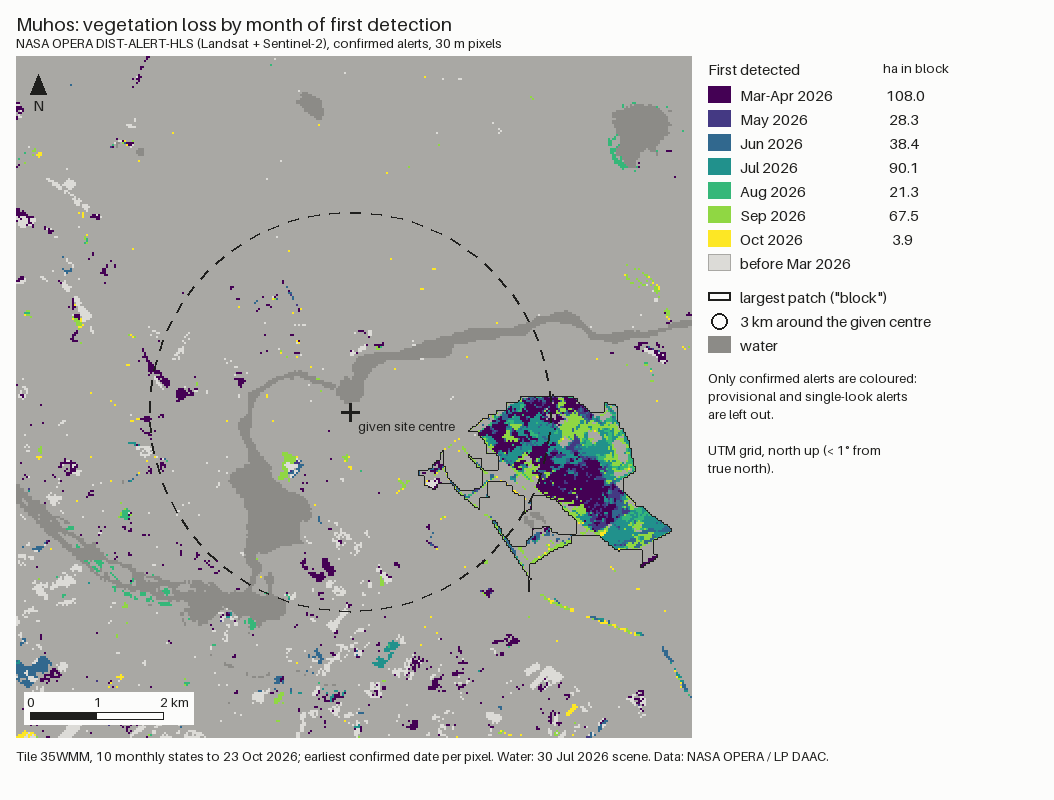
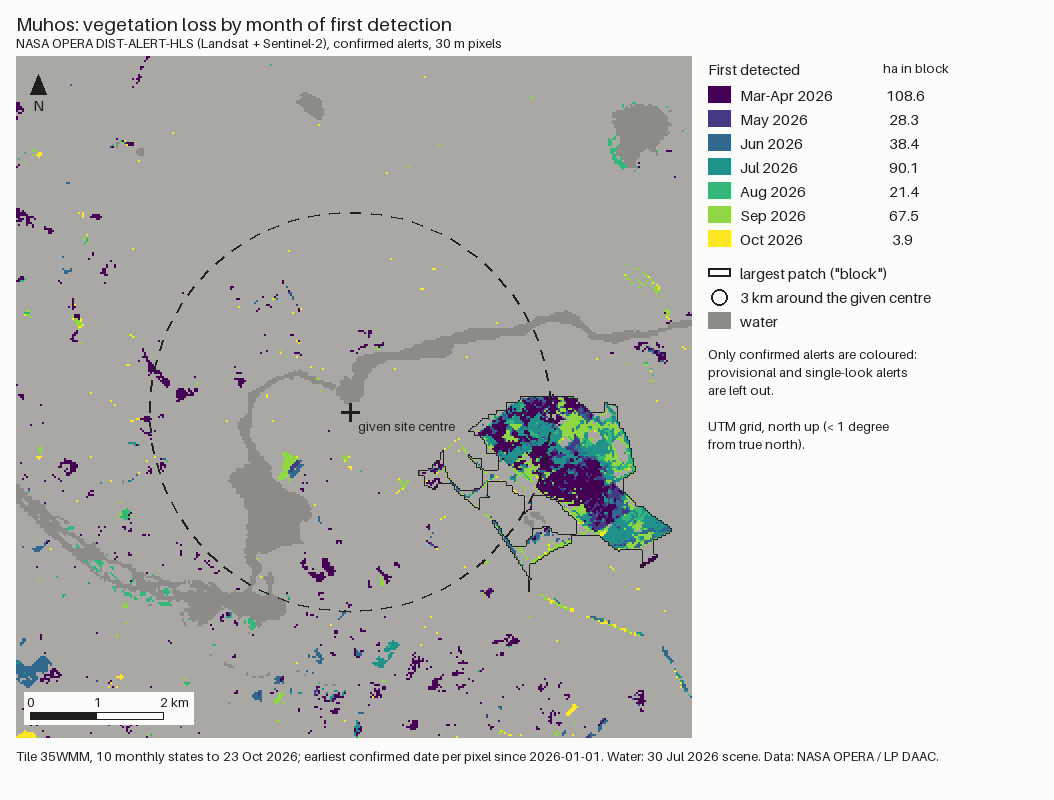
R6: count alerts from a per-site date, per-year table, Agroparc 2023-2026 run + picture

diff --git a/explore/optical-alerts/site_by_month.py b/explore/optical-alerts/site_by_month.py
@@ -1,22 +1,25 @@
 """Vegetation loss by month of first detection in a site window, from NASA's optical alerts (issue #44, R6 step 1).
 
     python explore/optical-alerts/site_by_month.py muhos      # tables + explore/optical-alerts/muhos_alerts.png
-    python explore/optical-alerts/site_by_month.py agroparc   # 2023 -> today
+    python explore/optical-alerts/site_by_month.py agroparc   # 2023 -> today, per year + 2025-26 by month
 
 Reads the alert state at the end of each month from the one MGRS tile that covers the site window
-(sarwatch.distalert), keeps each pixel's earliest confirmed first-detection date (distalert.combine: a "finished"
-alert is overwritten by a later one, which would move its date), then prints hectares per month of first detection
-for the window, a 3 km circle around the site centre and the largest connected patch of confirmed loss ("block"),
-plus what the reads cost. Needs an Earthdata token ($EARTHDATA_TOKEN or the repo's .env). Nothing is cached: a run
-reads about 1 MB per year of snapshots.
+(sarwatch.distalert). Alerts first detected before the site's `since` date are dropped, then each pixel keeps its
+earliest confirmed first-detection date (distalert.combine: a "finished" alert is overwritten by a later one, which
+would move its date). Prints hectares per month of first detection for the window, a 3 km circle around the given
+site centre and the largest connected patch of confirmed loss ("block"), a per-year table when the run spans several
+years (each year's alerts counted on their own: fields are alerted again every year), and what the reads cost.
+Needs an Earthdata token ($EARTHDATA_TOKEN or the repo's .env). Nothing is cached: ~0.35 MB per year of snapshots.
 """
 from __future__ import annotations
 
 import argparse
+import dataclasses
 import math
 import sys
 import time
 from concurrent.futures import ThreadPoolExecutor
+from datetime import datetime
 from pathlib import Path
 
 import numpy as np
@@ -25,22 +28,46 @@ ROOT = Path(__file__).resolve().parents[2]
 sys.path.insert(0, str(ROOT / "src"))
 from sarwatch import distalert as da  # noqa: E402
 
-SITES = {
+SITES = {  # start: first snapshot month to read; since: alerts first detected from here on are counted and mapped
     "muhos": {"label": "Muhos", "bbox": (25.94, 64.80, 26.15, 64.89), "centre": (26.044, 64.843),
-              "start": "2025-10-01", "block_from": "2026-01-01", "map_from": "2026-03-01"},
-    "agroparc": {"label": "Agroparc Penedès", "bbox": (1.79, 41.41, 1.91, 41.49), "centre": (1.85, 41.45),
-                 "start": "2023-01-01", "block_from": "2023-01-01", "map_from": "2023-01-01"},
+              "start": "2025-10-01", "since": "2026-01-01"},
+    "agroparc": {"label": "Agroparc Penedes", "bbox": (1.79, 41.41, 1.91, 41.49), "centre": (1.85, 41.45),
+                 "start": "2023-01-01", "since": "2025-01-01"},  # earthworks 2025-27 (kb/project-context.md)
 }
 RADIUS_M = 3000
 OUT_DIR = Path(__file__).resolve().parent
 
 
-def largest_patch(alerts, since) -> np.ndarray:
-    """The largest connected patch of confirmed alerts first seen on or after `since`, gaps of up to ~3 pixels
-    closed, holes filled."""
+# ---------------------------------------------------------------- analysis
+
+def within(states, lo, hi=None) -> list:
+    """Copies of the snapshots with every alert first detected outside [lo, hi) removed (status 0, date NaT)."""
+    out = []
+    for a in states:
+        keep = a.first_date >= np.datetime64(lo, "D")
+        if hi is not None:
+            keep &= a.first_date < np.datetime64(hi, "D")
+        out.append(dataclasses.replace(a, status=np.where(keep, a.status, 0).astype(a.status.dtype),
+                                       first_date=np.where(keep, a.first_date, np.datetime64("NaT", "D")), layers={}))
+    return out
+
+
+def confirmed_ha_by_year(states, years, regions: dict) -> dict:
+    """{year: {region name: confirmed ha}}, each calendar year's alerts counted on their own (a pixel at most once
+    per year), so a field alerted again every year counts every year."""
+    out = {}
+    for y in years:
+        alerts = da.combine(within(states, f"{y}-01-01", f"{y + 1}-01-01"))
+        conf = np.isin(alerts.status, da.CONFIRMED) & ~np.isnat(alerts.first_date)
+        out[y] = {name: float((conf & region).sum() * alerts.pixel_ha) for name, region in regions.items()}
+    return out
+
+
+def largest_patch(alerts) -> np.ndarray:
+    """The largest connected patch of confirmed alerts, gaps of up to ~3 pixels closed, holes filled."""
     from scipy import ndimage
 
-    hit = np.isin(alerts.status, da.CONFIRMED) & (alerts.first_date >= np.datetime64(since))
+    hit = np.isin(alerts.status, da.CONFIRMED) & ~np.isnat(alerts.first_date)
     closed = ndimage.binary_closing(hit, structure=np.ones((3, 3)), iterations=3)
     labels, n = ndimage.label(closed)
     if n == 0:
@@ -59,12 +86,17 @@ def centroid_lonlat(alerts, mask) -> tuple:
     return lon[0], lat[0]
 
 
-def table(title, by_month, since=None) -> str:
+def distance_km(epsg, p, q) -> float:
+    from rasterio.warp import transform as warp_transform
+
+    xs, ys = warp_transform("EPSG:4326", f"EPSG:{epsg}", [p[0], q[0]], [p[1], q[1]])
+    return math.hypot(xs[1] - xs[0], ys[1] - ys[0]) / 1000
+
+
+def table(title, by_month) -> str:
     rows = [f"**{title}**", "", "| month | confirmed ha | provisional ha | first-only ha |", "|---|---:|---:|---:|"]
-    total = {"confirmed": 0.0, "provisional": 0.0, "first": 0.0}
+    total = dict.fromkeys(da.CLASSES, 0.0)
     for month, v in by_month.items():
-        if since and month < since:
-            continue
         rows.append(f"| {month} | {v['confirmed']:.1f} | {v['provisional']:.1f} | {v['first']:.1f} |")
         for k in total:
             total[k] += v[k]
@@ -75,41 +107,49 @@ def table(title, by_month, since=None) -> str:
 
 # ---------------------------------------------------------------- picture
 
-# Ordinal ramp, dark (early) -> light (late): monotone lightness, adjacent steps distinguishable, colour-blind safe
-# (viridis samples). A one-hue ramp cannot hold seven visibly different steps.
+# Ordinal ramp, dark (early) -> light (late): monotone lightness and clear steps (viridis samples, colour-blind safe).
+# One hue cannot hold seven visibly different steps; the legend and the tables carry the exact months.
 RAMP = ["#440154", "#443983", "#31688e", "#21918c", "#35b779", "#90d743", "#fde725"]
-LAND, WATER, OLDER, INK, PANEL = "#a9a8a4", "#8c8b87", "#dcdbd7", "#1f1f1d", "#fcfcfb"
+LAND, WATER, INK, PANEL = "#a9a8a4", "#8c8b87", "#1f1f1d", "#fcfcfb"
 
 
 def _rgb(hex_colour):
     return tuple(int(hex_colour[i:i + 2], 16) for i in (1, 3, 5))
 
 
-def month_bins(months, map_from) -> list:
-    """Up to len(RAMP) colour bins over the months on the map: one month each; a few months too many -> the
-    earliest ones merged into the first bin; many more (several years) -> one bin per year."""
-    months = sorted(m for m in set(months) if m >= map_from)
+def month_bins(months) -> list:
+    """At most len(RAMP) colour bins over the months: one month each; one or two months too many -> the earliest
+    merged into the first bin; more -> calendar periods of 2, 3, 6 or 12 months, the shortest that fits."""
+    months = sorted(set(months))
     extra = len(months) - len(RAMP)
     if extra <= 0:
         return [[m] for m in months]
     if extra <= 2:
         return [months[:extra + 1]] + [[m] for m in months[extra + 1:]]
-    years = sorted({m[:4] for m in months})
-    return [[m for m in months if m.startswith(y)] for y in years][-len(RAMP):]
+    for n in (2, 3, 6, 12):
+        groups = {}
+        for m in months:
+            groups.setdefault((m[:4], (int(m[5:]) - 1) // n), []).append(m)
+        if len(groups) <= len(RAMP):
+            break
+    return list(groups.values())[-len(RAMP):]
 
 
-def _bin_label(group) -> str:
-    from datetime import datetime
-
+def bin_label(group) -> str:
     names = [datetime.strptime(m, "%Y-%m").strftime("%b %Y") for m in group]
     if len(names) == 1:
         return names[0]
-    if len(names) == 12 or (names[0][4:] == names[-1][4:] and len(names) > 6):
-        return names[0][4:]  # a whole year
     return f"{names[0][:3]}-{names[-1]}"
 
 
-def draw_png(path, site, alerts, water, block, circle_centre, by_block, bins, footer):
+def _ramp(n) -> list:
+    """n colours spread over RAMP, always including both ends."""
+    if n <= 1:
+        return RAMP[-1:] * n
+    return [RAMP[round(i * (len(RAMP) - 1) / (n - 1))] for i in range(n)]
+
+
+def draw_png(path, site, alerts, water, block, by_block, bins, footer):
     from PIL import Image, ImageDraw, ImageFont
     from rasterio.warp import transform as warp_transform
 
@@ -120,9 +160,8 @@ def draw_png(path, site, alerts, water, block, circle_centre, by_block, bins, fo
     rgb[water] = _rgb(WATER)
     conf = np.isin(alerts.status, da.CONFIRMED) & ~np.isnat(alerts.first_date)
     months = alerts.first_date.astype("datetime64[M]").astype(str)
-    first_map_month = bins[0][0] if bins else "9999-12"
-    rgb[conf & (months < first_map_month)] = _rgb(OLDER)
-    for colour, group in zip(RAMP[:len(bins)] if len(bins) == len(RAMP) else _spread(len(bins)), bins):
+    colours = _ramp(len(bins))
+    for colour, group in zip(colours, bins):
         rgb[conf & np.isin(months, group)] = _rgb(colour)
     big = np.kron(rgb, np.ones((k, k, 1), np.uint8))
     edge = np.kron(block, np.ones((k, k), bool))
@@ -131,21 +170,18 @@ def draw_png(path, site, alerts, water, block, circle_centre, by_block, bins, fo
     big[edge & ~inner] = _rgb(INK)
 
     margin, legend_w, title_h, footer_h = 16, 330, 56, 46
-    W, H = margin * 3 + cols * k + legend_w, title_h + rows * k + footer_h + margin
-    img = Image.new("RGB", (W, H), _rgb(PANEL))
+    img = Image.new("RGB", (margin * 3 + cols * k + legend_w, title_h + rows * k + footer_h + margin), _rgb(PANEL))
     img.paste(Image.fromarray(big), (margin, title_h))
     d = ImageDraw.Draw(img)
-    font = ImageFont.load_default(size=15)
-    small = ImageFont.load_default(size=13)
-    bold = ImageFont.load_default(size=19)
+    font, small, bold = (ImageFont.load_default(size=s) for s in (15, 13, 19))
     ox, oy = margin, title_h
     d.text((margin, 12), f"{site['label']}: vegetation loss by month of first detection", fill=_rgb(INK), font=bold)
     d.text((margin, 35), "NASA OPERA DIST-ALERT-HLS (Landsat + Sentinel-2), confirmed alerts, 30 m pixels",
            fill=_rgb(INK), font=small)
 
-    # site centre + 3 km circle (dashed)
+    # given site centre + 3 km circle (dashed)
     a, _, c, _, e, f = alerts.transform
-    xs, ys = warp_transform("EPSG:4326", f"EPSG:{alerts.epsg}", [circle_centre[0]], [circle_centre[1]])
+    xs, ys = warp_transform("EPSG:4326", f"EPSG:{alerts.epsg}", [site["centre"][0]], [site["centre"][1]])
     px, py = ox + (xs[0] - c) / a * k, oy + (ys[0] - f) / e * k
     r = RADIUS_M / a * k
     for i in range(0, 120, 2):
@@ -176,16 +212,13 @@ def draw_png(path, site, alerts, water, block, circle_centre, by_block, bins, fo
     d.text((lx, ly), "First detected", fill=_rgb(INK), font=font)
     d.text((lx + 175, ly), "ha in block", fill=_rgb(INK), font=small)
     ly += 26
-    colours = RAMP if len(bins) == len(RAMP) else _spread(len(bins))
     for colour, group in zip(colours, bins):
         d.rectangle([lx, ly, lx + 22, ly + 16], fill=_rgb(colour))
-        d.text((lx + 32, ly), _bin_label(group), fill=_rgb(INK), font=font)
+        d.text((lx + 32, ly), bin_label(group), fill=_rgb(INK), font=font)
         ha = sum(by_block.get(m, {}).get("confirmed", 0.0) for m in group)
         d.text((lx + 175, ly), f"{ha:6.1f}", fill=_rgb(INK), font=font)
         ly += 24
-    d.rectangle([lx, ly, lx + 22, ly + 16], fill=_rgb(OLDER), outline=_rgb(LAND))
-    d.text((lx + 32, ly), f"before {_bin_label([first_map_month])}", fill=_rgb(INK), font=font)
-    ly += 34
+    ly += 10
     d.rectangle([lx, ly + 4, lx + 22, ly + 12], outline=_rgb(INK), width=2)
     d.text((lx + 32, ly), "largest patch (\"block\")", fill=_rgb(INK), font=font)
     ly += 24
@@ -196,18 +229,11 @@ def draw_png(path, site, alerts, water, block, circle_centre, by_block, bins, fo
     d.text((lx + 32, ly), "water", fill=_rgb(INK), font=font)
     ly += 34
     for line in ("Only confirmed alerts are coloured:", "provisional and single-look alerts", "are left out.",
-                 "", "UTM grid, north up (< 1° from", "true north)."):
+                 "", "UTM grid, north up (< 1 degree", "from true north)."):
         d.text((lx, ly), line, fill=_rgb(INK), font=small)
         ly += 18
     d.text((margin, oy + rows * k + 10), footer, fill=_rgb(INK), font=small)
     img.save(path, optimize=True)
-
-
-def _spread(n) -> list:
-    """n colours spread over RAMP (for fewer bins than ramp steps)."""
-    if n <= 1:
-        return RAMP[-1:] * n
-    return [RAMP[round(i * (len(RAMP) - 1) / (n - 1))] for i in range(n)]
 
 
 # ---------------------------------------------------------------- main
@@ -215,15 +241,14 @@ def _spread(n) -> list:
 def main(argv=None):
     p = argparse.ArgumentParser(description=__doc__.splitlines()[0])
     p.add_argument("site", choices=sorted(SITES))
-    p.add_argument("--start", help="first month to read (default: per site)")
     p.add_argument("--end", help="last day to read (default: today)")
     p.add_argument("--no-png", action="store_true")
     args = p.parse_args(argv)
     site = SITES[args.site]
-    bbox, start = site["bbox"], args.start or site["start"]
+    bbox, since = site["bbox"], site["since"]
 
     t0 = time.perf_counter()
-    granules = da.search(bbox, start, args.end)
+    granules = da.search(bbox, site["start"], args.end)
     t_search = time.perf_counter() - t0
     tile = da.pick_tile(granules, bbox)
     snaps = da.month_ends(granules, tile)
@@ -236,59 +261,59 @@ def main(argv=None):
         states = list(pool.map(lambda g: da.read_window(g, bbox, workers=2), snaps))
     t_read = time.perf_counter() - t1
     newest = states[-1]
-    alerts = da.combine(states)
-    rows, cols = alerts.status.shape
-    print(f"read {alerts.cost['files']} files, window {rows} x {cols} px (EPSG:{alerts.epsg}), "
-          f"~{alerts.cost['bytes'] / 1e6:.2f} MB, {t_read:.0f} s wall clock "
-          f"({alerts.cost['seconds'] / len(snaps):.1f} s per snapshot, 4 in parallel); newest state: {newest.granule}")
+    cost = da.combine(states).cost
+    rows, cols = newest.status.shape
+    print(f"read {cost['files']} files, window {rows} x {cols} px (EPSG:{newest.epsg}), ~{cost['bytes'] / 1e6:.2f} MB, "
+          f"{t_read:.0f} s wall clock ({cost['seconds'] / len(snaps):.1f} s per snapshot, 4 in parallel); "
+          f"newest state: {newest.granule}")
 
+    alerts = da.combine(within(states, since))
     circle = da.circle_mask(alerts, *site["centre"], RADIUS_M)
-    block = largest_patch(alerts, site["block_from"])
-    blon, blat = centroid_lonlat(alerts, block)
-    from rasterio.warp import transform as warp_transform
-    (cx,), (cy,) = warp_transform("EPSG:4326", f"EPSG:{alerts.epsg}", [site["centre"][0]], [site["centre"][1]])
-    (bx,), (by_,) = warp_transform("EPSG:4326", f"EPSG:{alerts.epsg}", [blon], [blat])
+    block = largest_patch(alerts)
+    centre = centroid_lonlat(alerts, block)
     block_ha = block.sum() * alerts.pixel_ha
-    print(f"block: {block_ha:.0f} ha outline, centroid lon {blon:.4f} lat {blat:.4f}, "
-          f"{math.hypot(bx - cx, by_ - cy) / 1000:.1f} km from the site centre {site['centre']}")
-    block_circle = da.circle_mask(alerts, blon, blat, RADIUS_M)
+    print(f"alerts counted from {since}; block: {block_ha:.0f} ha outline, centroid lon {centre[0]:.4f} "
+          f"lat {centre[1]:.4f}, {distance_km(alerts.epsg, site['centre'], centre):.1f} km from the given centre")
 
-    since = site["block_from"][:7]
     by_block = da.hectares_by_month(alerts, block)
-    print()
-    print(table(f"Window {bbox} ({rows * cols * alerts.pixel_ha:.0f} ha)", da.hectares_by_month(alerts), since))
-    print()
-    print(table(f"{RADIUS_M // 1000} km circle around the site centre {site['centre']}",
-                da.hectares_by_month(alerts, circle), since))
-    print()
-    print(table(f"Largest patch (block, {block_ha:.0f} ha outline)", by_block, since))
-    print()
-    print(table(f"{RADIUS_M // 1000} km circle around the block centroid ({blon:.3f}, {blat:.3f})",
-                da.hectares_by_month(alerts, block_circle), since))
-    print()
-    print(table("Block, newest state only (no snapshots): dates of the newest alert per pixel",
-                da.hectares_by_month(newest, block), since))
-    print()
+    for title, by in (
+            (f"Window {bbox} ({rows * cols * alerts.pixel_ha:.0f} ha)", da.hectares_by_month(alerts)),
+            (f"{RADIUS_M // 1000} km circle around the given centre {site['centre']}",
+             da.hectares_by_month(alerts, circle)),
+            (f"Largest patch (block, {block_ha:.0f} ha outline)", by_block),
+            (f"{RADIUS_M // 1000} km circle around the block centroid ({centre[0]:.3f}, {centre[1]:.3f})",
+             da.hectares_by_month(alerts, da.circle_mask(alerts, *centre, RADIUS_M))),
+            ("Block, newest state only (no snapshots): dates of the newest alert per pixel",
+             da.hectares_by_month(within([newest], since)[0], block))):
+        print(f"\n{table(title, by)}")
     cum, line = 0.0, []
     for m, v in by_block.items():
-        if m >= since:
-            cum += v["confirmed"]
-            line.append(f"{m}: {cum:.0f}")
-    print("Block, confirmed loss piling up (cumulative ha by month of first detection): " + " | ".join(line))
-    strong = sum(v["confirmed"] for m, v in da.hectares_by_month(newest, block, strong_only=True).items()
-                 if m >= since)
+        cum += v["confirmed"]
+        line.append(f"{m}: {cum:.0f}")
+    print("\nBlock, confirmed loss piling up (cumulative ha by month of first detection): " + " | ".join(line))
+    strong = sum(v["confirmed"] for v in da.hectares_by_month(within([newest], since)[0], block,
+                                                               strong_only=True).values())
     print(f"Block, newest state: {strong:.0f} ha confirmed with a loss >= 50% of the vegetation cover")
+
+    years = range(int(site["start"][:4]), newest.acquired.year + 1)
+    if len(years) > 1:
+        regions = {"window": np.ones_like(circle), "3 km circle": circle, "block": block}
+        print("\n**Confirmed loss per calendar year (each year's alerts on their own)**\n")
+        print("| year | " + " | ".join(f"{name} ha" for name in regions) + " |")
+        print("|---|" + "---:|" * len(regions))
+        for y, v in confirmed_ha_by_year(states, years, regions).items():
+            print(f"| {y} | " + " | ".join(f"{v[name]:.1f}" for name in regions) + " |")
 
     if not args.no_png:
         summer = [g for g in granules if g.tile == tile and g.start.month in (6, 7, 8)
                   and g.extra.get("coverage", 0) >= 90] or [g for g in granules if g.tile == tile]
         clear = min(summer, key=lambda g: g.extra.get("cloud", 100))
         mask = da.read_window(clear, bbox, layers=("DATA-MASK",)).layers["DATA-MASK"]
-        bins = month_bins(list(da.hectares_by_month(alerts)), site["map_from"][:7])
+        bins = month_bins(m for m, v in da.hectares_by_month(alerts).items() if v["confirmed"] > 0)
         path = OUT_DIR / f"{args.site}_alerts.png"
         footer = (f"Tile {tile}, {len(snaps)} monthly states to {newest.acquired:%d %b %Y}; earliest confirmed "
-                  f"date per pixel. Water: {clear.start:%d %b %Y} scene. Data: NASA OPERA / LP DAAC.")
-        draw_png(path, site, alerts, mask == 2, block, site["centre"], by_block, bins, footer)
+                  f"date per pixel since {since}. Water: {clear.start:%d %b %Y} scene. Data: NASA OPERA / LP DAAC.")
+        draw_png(path, site, alerts, mask == 2, block, by_block, bins, footer)
         print(f"\nwrote {path.relative_to(ROOT)}")
 
 
